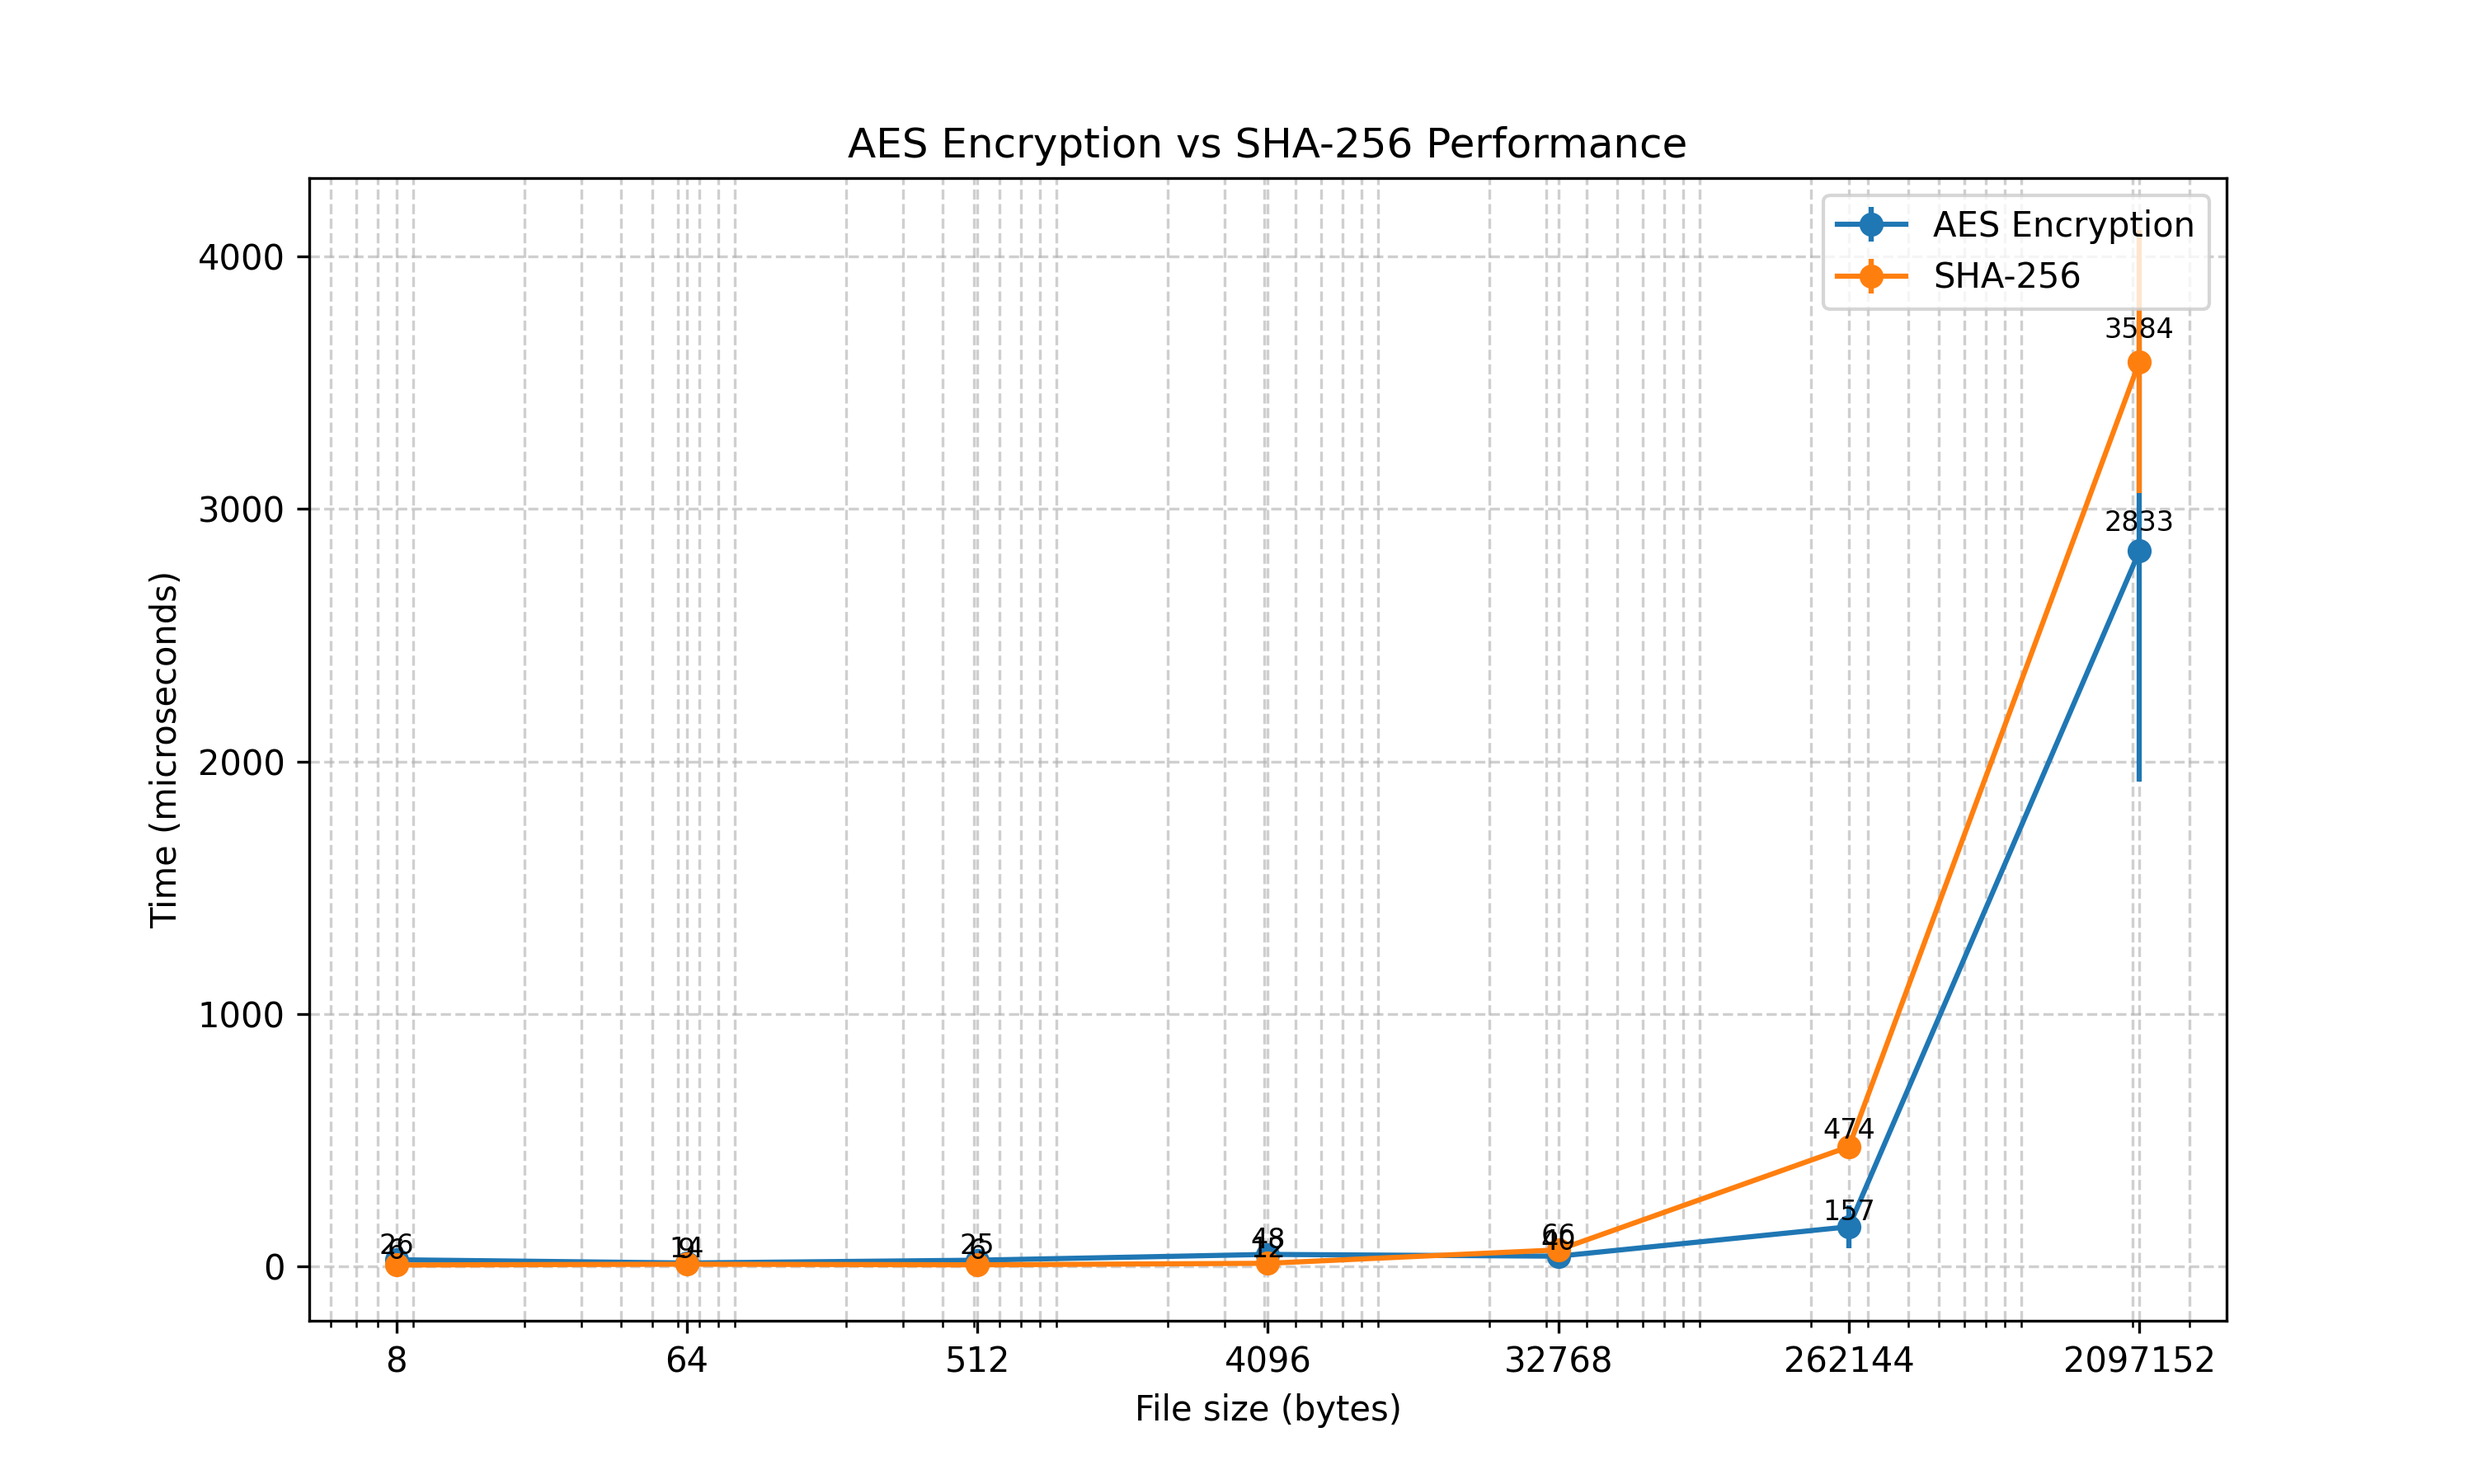
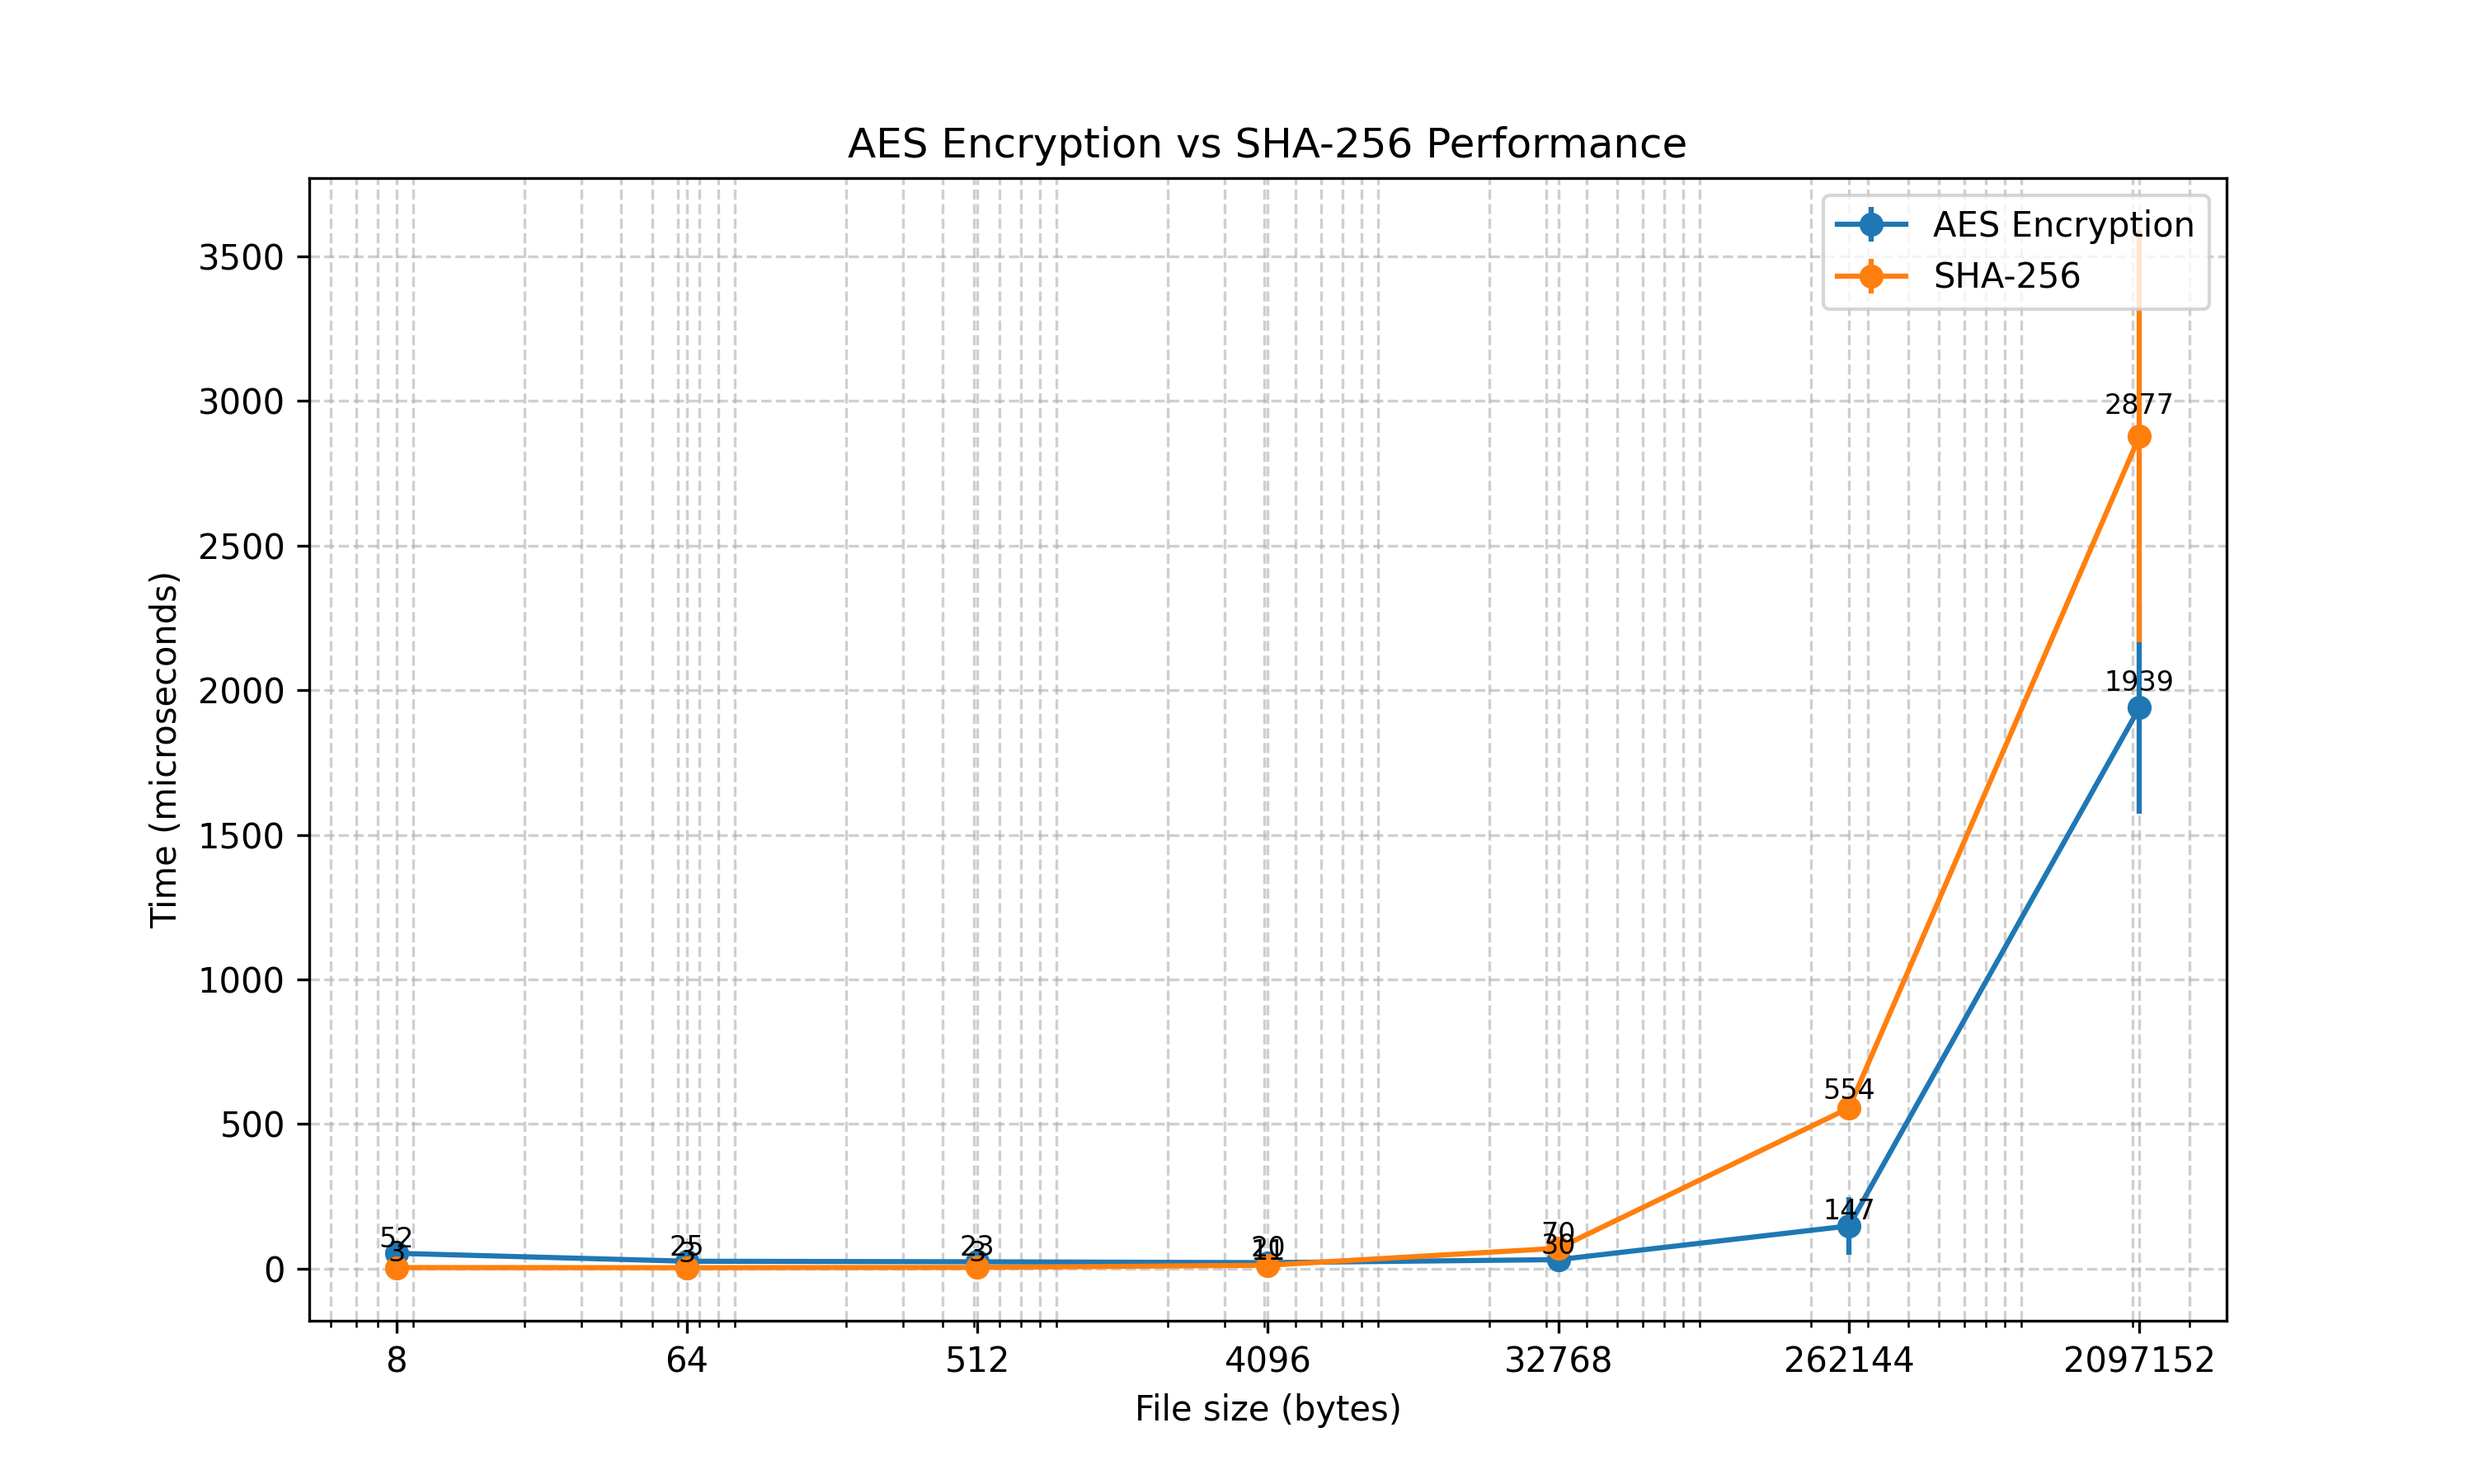
main e plots

diff --git a/main.py b/main.py
@@ -1,0 +1,19 @@
+from aes import run_aes, plot_aes
+from rsa2048 import run_rsa, plot_rsa
+from sha256 import run_sha, plot_sha
+
+print("Running AES...")
+run_aes()
+plot_aes()
+
+print("Running RSA...")
+run_rsa()
+plot_rsa()
+
+print("Running SHA-256...")
+run_sha()
+plot_sha()
+
+print("Running comparisons...")
+import aes_vs_rsa
+import aes_vs_sha256

diff --git a/rsa2048.py b/rsa2048.py
@@ -117,7 +117,7 @@ for size in sizes:
 def run_rsa():
     return sizes, encrypt_mean_list, encrypt_std_list, decrypt_mean_list, decrypt_std_list
 
-if __name__ == "__main__":
+def plot_rsa():
     plt.figure(figsize=(10,6))
 
     # plot com barras de erro

diff --git a/aes.py b/aes.py
@@ -68,7 +68,7 @@ for s in sizes:
 def run_aes():
     return sizes, aes_enc, aes_encstd, aes_dec, aes_decstd
 
-if __name__ == "__main__":
+def plot_aes():
     plt.figure(figsize=(10,6))
 
     # plot com barras de erro

diff --git a/sha256.py b/sha256.py
@@ -39,7 +39,7 @@ for s in sizes:
 def run_sha():
     return sizes, sha_mean_list, sha_std_list
 
-if __name__ == "__main__":
+def plot_sha():
     plt.figure(figsize=(10,6))
 
     # Plot com barras de erro
